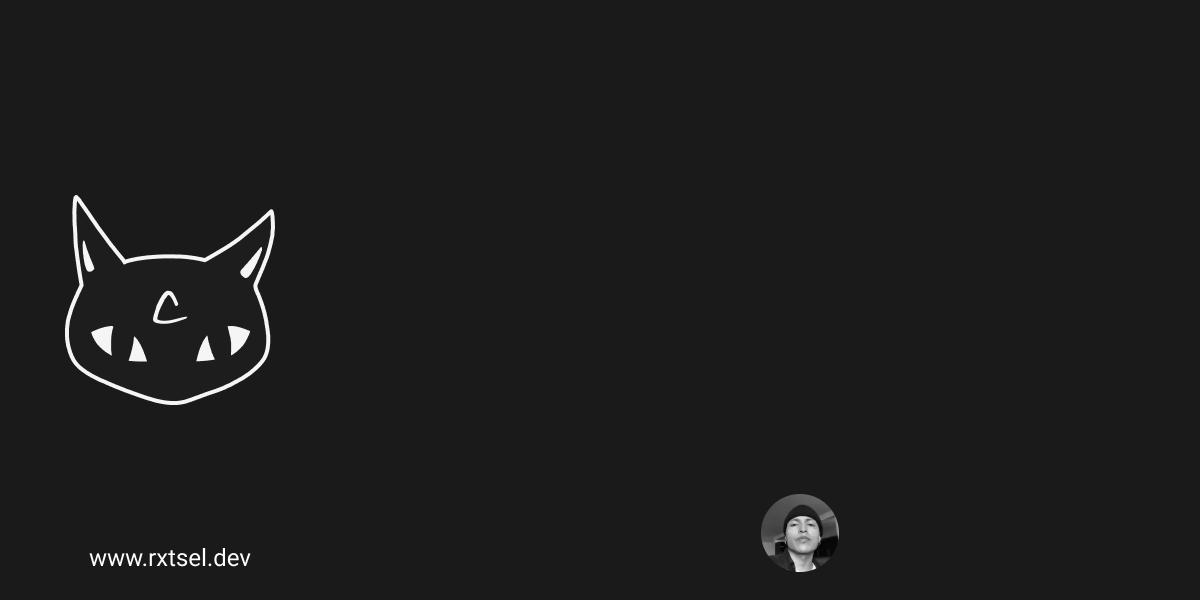
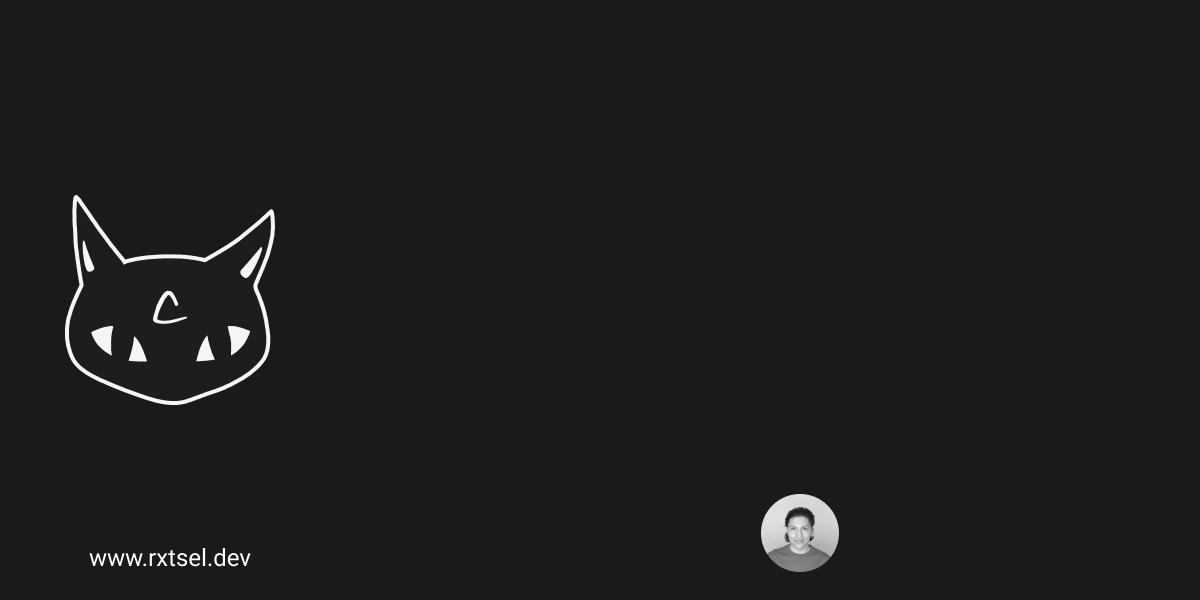
chore(og): update og template and center name

Changed region(s): [[0.6167, 0.81, 0.7092, 0.96]]

diff --git a/src/pages/[lang]/blog/[slug]/og.png.ts b/src/pages/[lang]/blog/[slug]/og.png.ts
@@ -59,7 +59,7 @@ export async function GET({ props }: Props) {
         {
           type: 'div',
           props: {
-            tw: 'absolute right-[40px] bottom-[40px] flex items-center',
+            tw: 'absolute right-[40px] bottom-[50px] flex items-center',
             children: [
               {
                 type: 'div',
